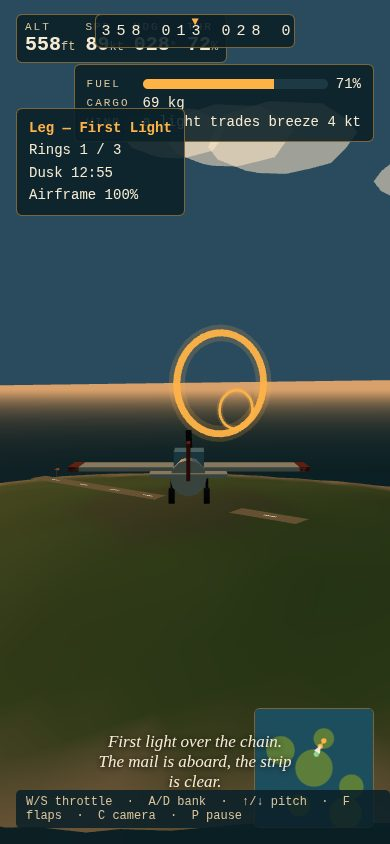
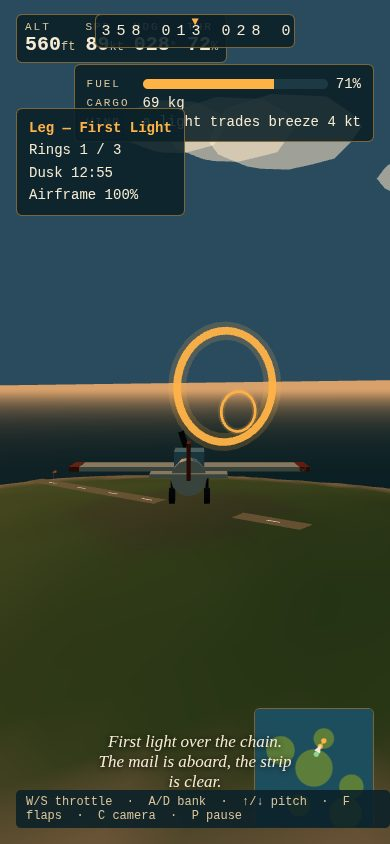
Autopilot landing: glide slope relative to destination strip ground height (strips sit on slopes up to 124m); flare to strip surface

diff --git a/game/src/autopilot.js b/game/src/autopilot.js
@@ -4,6 +4,7 @@
 // the autopilot can finish is a leg a player can finish.
 
 import { dist2d } from './flight.js';
+import { terrainHeight } from './terrain.js';
 
 export function createAutopilot() {
   return { active: false, targetAlt: 160, phase: 'rings' };
@@ -38,19 +39,30 @@ export function autopilotInput(ap, flight, target, dt, wind) {
   // POSITIVE aileron. The roll term damps the bank back toward level.
   const aileron = Math.max(-1, Math.min(1, -dh * 1.4 - flight.roll * 1.2));
 
-  // Altitude: hold the band, climb early, descend late.
+  // Altitude: hold the band, climb early, descend late. On final, fly a
+  // glide slope RELATIVE to the destination strip's ground height — the
+  // strips sit on island slopes (Marrow ~50 m, Dusk Point ~124 m), so an
+  // absolute-altitude slope flew the plane into the hillside short of the
+  // strip on the two return-home legs (Night Mail 300 m short, Medicine
+  // Crate 346 m short).
+  if (ap.phase === 'land') {
+    const ground = target.ground || 0;
+    ap.targetAlt = ground + Math.max(8, Math.min(70, 10 + dist * 0.1));
+  }
   const altErr = ap.targetAlt - flight.y;
   let elevator = Math.max(-0.8, Math.min(0.8, altErr * 0.012 - flight.pitch * 1.6));
-  if (ap.phase === 'land' && dist < 400) {
-    // Flare, only on final: level off just above the strip, bleed speed,
-    // settle. (Before the fix the flare held the plane at 12 m for the
-    // whole approach and it orbited the strip forever, never touching down.)
-    elevator = Math.max(-0.4, Math.min(0.6, (2 - flight.y) * 0.05 - flight.pitch * 2));
+  if (ap.phase === 'land' && dist < 250) {
+    // Flare, only on short final: level off just above the strip surface,
+    // bleed speed, settle.
+    const ground = target.ground || 0;
+    elevator = Math.max(-0.4, Math.min(0.6, (ground + 2 - flight.y) * 0.05 - flight.pitch * 2));
   }
 
   // Throttle: cruise power, ease off when fast or close, idle on final.
+  // On final, bleed speed early so the plane arrives at the strip slow
+  // enough to stop on it instead of overshooting into the far terrain.
   let throttleDelta = 0;
-  const want = ap.phase === 'land' ? 0.18 : 0.62;
+  const want = ap.phase === 'land' ? (dist < 400 ? 0.12 : 0.3) : 0.62;
   const err = want - flight.throttle;
   throttleDelta = Math.max(-0.8, Math.min(0.8, err * 1.5));
   if (flight.speed > 52) throttleDelta = Math.min(throttleDelta, -0.4);
@@ -59,7 +71,7 @@ export function autopilotInput(ap, flight, target, dt, wind) {
     aileron,
     elevator,
     throttleDelta,
-    flaps: ap.phase === 'land' && dist < 600,
+    flaps: ap.phase === 'land' && dist < 700,
   };
 }
 
@@ -74,10 +86,10 @@ export function autopilotTarget(ap, leg, ringsPassed, destStrip) {
   ap.phase = 'land';
   if (destStrip) {
     ap.targetAlt = 60;
-    return { x: destStrip.x, z: destStrip.z, y: 20, ring: false };
+    return { x: destStrip.x, z: destStrip.z, y: 20, ring: false, ground: terrainHeight(destStrip.x, destStrip.z) };
   }
   ap.targetAlt = 60;
-  return { x: leg.rings[leg.rings.length - 1].x, z: leg.rings[leg.rings.length - 1].z, y: 20, ring: false };
+  return { x: leg.rings[leg.rings.length - 1].x, z: leg.rings[leg.rings.length - 1].z, y: 20, ring: false, ground: 0 };
 }
 
 export function ringReached(flight, ring, radius) {

diff --git a/game/src/main.js b/game/src/main.js
@@ -196,7 +196,7 @@ function frame(ts) {
   // --- flying ---
   const wind = windVector(leg, flight.time);
   const ctrl = AUTO
-    ? autopilotInput(ap, flight, autopilotTarget(ap, leg, ringsPassed, destStripForLeg(leg)), dt, wind)
+    ? autopilotInput(ap, flight, autopilotTarget(ap, leg, ringsPassed, destStripForLeg(leg) || stripForLeg(leg)), dt, wind)
     : input.read(dt);
   const ev = stepFlight(flight, ctrl, dt, wind, terrainHeight);
   const windSpeed = Math.sqrt(wind.x * wind.x + wind.z * wind.z);
